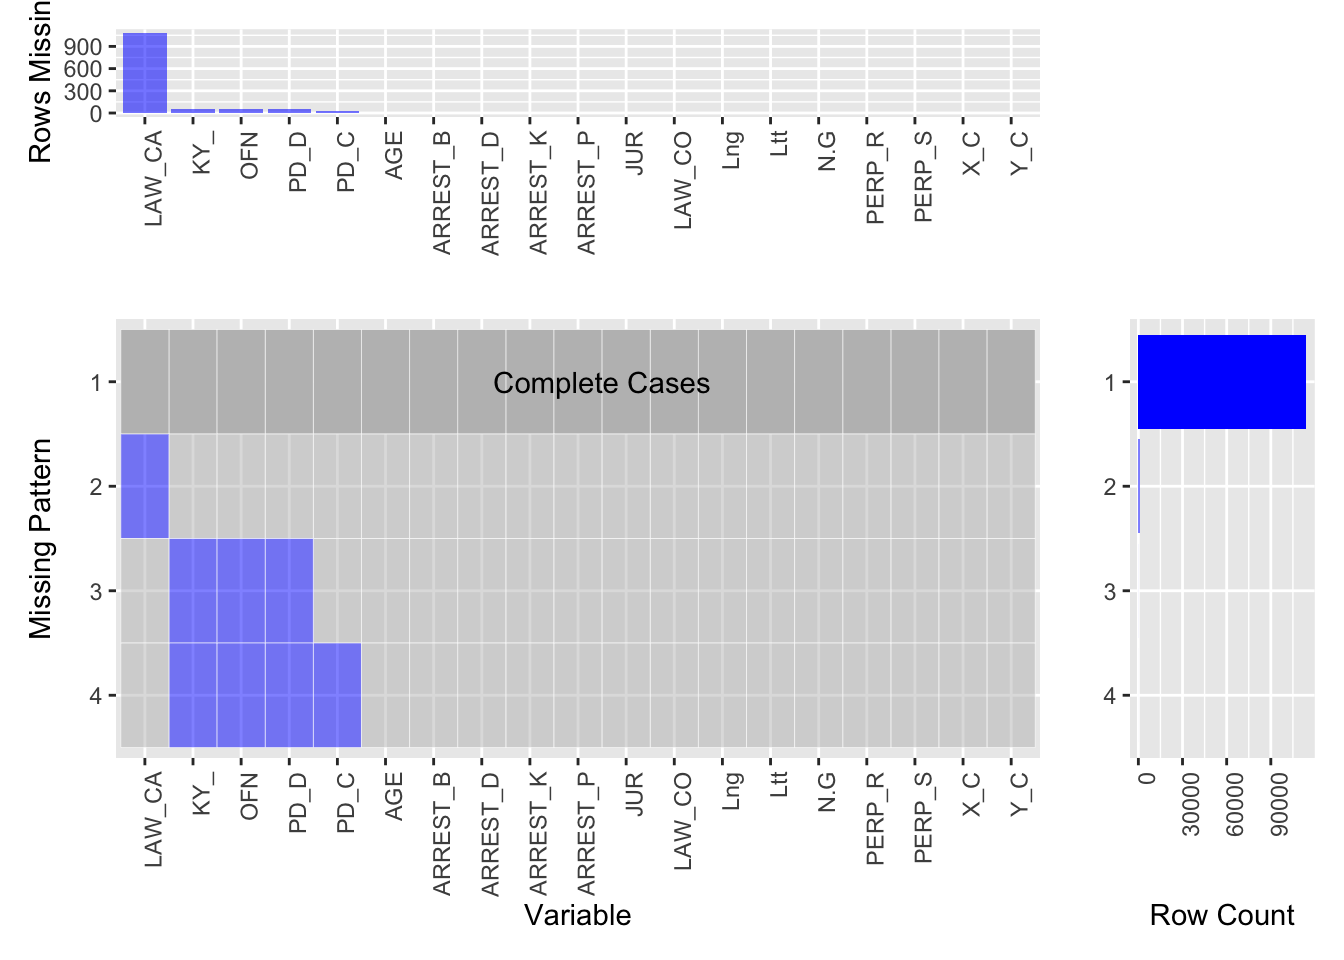
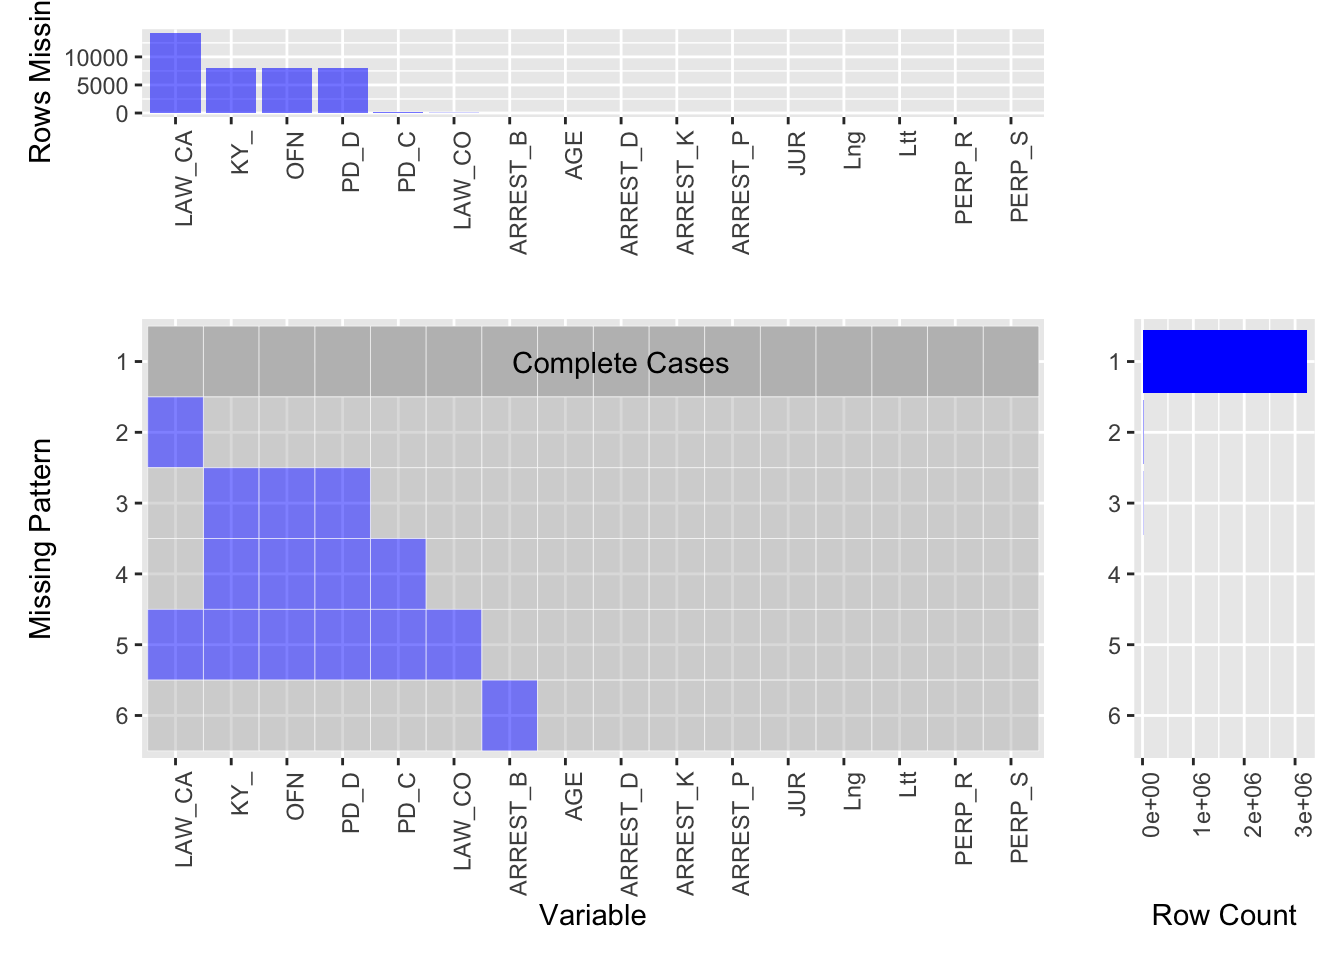
Updated missing values section

diff --git a/docs/missing-values.html b/docs/missing-values.html
@@ -24,7 +24,7 @@
 <meta name="author" content="Ryan Rogers and Tyler Marshall" />
 
 
-<meta name="date" content="2021-12-02" />
+<meta name="date" content="2021-12-03" />
 
   <meta name="viewport" content="width=device-width, initial-scale=1" />
   <meta name="apple-mobile-web-app-capable" content="yes" />
@@ -134,9 +134,10 @@
 <h2><span class="header-section-number">4.2</span> Visualizing the Missing Values</h2>
 <p>Now that we have imported our data in its original form, we will look at our dataset for missing values. Before visualizing our missing values, however, we noticed that some of the entries in the data had empty strings (""), but were not classified as NA in the dataset. Since we felt these empty strings were the equivalent of NA, we changed them in our dataset before plotting the missing values.</p>
 <p><img src="finalproj_files/figure-html/missing%20values%201-1.png" width="672" /></p>
-<p>From the first plot, we can see that there are 4 different patterns in our data with the most common pattern being no missing data. The plot above shows that there isn’t too much missing data in our dataset, but there are still a few variables that had missing values. The most common pattern where there was missing data is for just <code>LAW_CA</code> to be missing, and this happened around 1000 times in our dataset. <code>LAW_CA</code> is the level of the offense (felony, misdemeanor or violation), so it seems this is not always documented when the arrest occurs. The second most common pattern where data was missing was for the data to be missing <code>KY_</code>, <code>OFN</code>, and <code>PD_D</code>. This pattern was far less common and occurred under 100 times out of the 115,299 observations in the data. <code>KY_</code> is an internal classification keycode, <code>OFN</code> is a description of internal classification, and <code>PD_D</code> is a description of internal classification that is more granular than <code>OFN</code>. It seems that on occasion these codes and descriptions were not filled in when the arrest was made. The final pattern contains <code>KY_</code>, <code>OFN</code>, <code>PD_D</code> again, but also contains <code>PD_C</code>. <code>PD_C</code> is another internal classification code that is more granular than <code>KY_</code>. This pattern is very similar to previous one, but contains another missing variable that is similar to the others. We also want to plot our missing data showing percentage missing instead of number of rows missing.</p>
+<p>From the first plot, we can see that there are 6 different patterns in our data with the most common pattern being no missing data. The plot above shows that there isn’t too much missing data in our dataset, but there are still a few variables that had missing values. The most common pattern where there was missing data is for just <code>LAW_CA</code> to be missing, and this happened around 15000 times in our dataset. <code>LAW_CA</code> is the level of the offense (felony, misdemeanor or violation), so it seems this is not always documented when the arrest occurs. The second most common pattern where data was missing was for the data to be missing <code>KY_</code>, <code>OFN</code>, and <code>PD_D</code>. This pattern was far less common and occurred around 5000 times out of over 3.2 million observations in the data. <code>KY_</code> is an internal classification keycode, <code>OFN</code> is a description of internal classification, and <code>PD_D</code> is a description of internal classification that is more granular than <code>OFN</code>. It seems that on occasion these codes and descriptions were not filled in when the arrest was made. The next most common pattern contains <code>KY_</code>, <code>OFN</code>, <code>PD_D</code> again, but also contains <code>PD_C</code>. <code>PD_C</code> is another internal classification code that is more granular than <code>KY_</code>. This pattern is very similar to previous one, but contains another missing variable that is similar to the others. The next most common missing patterns has the most missing variables with <code>LAW_CA</code>, <code>KY_</code>, <code>OFN</code>, <code>PD_D</code>, <code>PD_C</code>, <code>LAW_CO</code> all missing. <code>LAW_CO</code> is the only variable in this group that hadn’t been in another pattern and this variable represents the law code charges which is a classification code to indicate the charge of the arrest. Our final missing pattern only had <code>ARREST_B</code> variable which is the borough that the arrest occurred in. This pattern was not very common which indicates that the arrest records do a good job keeping track of the location where the arrest happened. We also want to plot our missing data showing percentage missing instead of number of rows missing.</p>
 <p><img src="finalproj_files/figure-html/missing%20values%202-1.png" width="672" /></p>
 <p>The patterns are the same as the plot above, but this plot emphasizes the limited amount of missing data in our dataset. The portion of missing data is very small for our dataset, which is a good sign for our analysis. If there is too much missing data, the analysis can be much more challenging, but this is not the case with the NYC arrests data.</p>
+<p>Before moving on to the results section, we wanted to look further into the missing values in our dataset to see if there were any patterns with values of other variables.</p>
 
 </div>
 </div>

diff --git a/docs/404.html b/docs/404.html
@@ -33,7 +33,7 @@
   
 
 
-<script src="libs/header-attrs-2.11/header-attrs.js"></script>
+<script src="libs/header-attrs-2.10/header-attrs.js"></script>
 <script src="libs/jquery-3.6.0/jquery-3.6.0.min.js"></script>
 <script src="https://cdn.jsdelivr.net/npm/fuse.js@6.4.6/dist/fuse.min.js"></script>
 <link href="libs/gitbook-2.6.7/css/style.css" rel="stylesheet" />
@@ -55,70 +55,6 @@
 <script src="libs/anchor-sections-1.0.1/anchor-sections.js"></script>
 
 
-<style type="text/css">
-pre > code.sourceCode { white-space: pre; position: relative; }
-pre > code.sourceCode > span { display: inline-block; line-height: 1.25; }
-pre > code.sourceCode > span:empty { height: 1.2em; }
-.sourceCode { overflow: visible; }
-code.sourceCode > span { color: inherit; text-decoration: inherit; }
-pre.sourceCode { margin: 0; }
-@media screen {
-div.sourceCode { overflow: auto; }
-}
-@media print {
-pre > code.sourceCode { white-space: pre-wrap; }
-pre > code.sourceCode > span { text-indent: -5em; padding-left: 5em; }
-}
-pre.numberSource code
-  { counter-reset: source-line 0; }
-pre.numberSource code > span
-  { position: relative; left: -4em; counter-increment: source-line; }
-pre.numberSource code > span > a:first-child::before
-  { content: counter(source-line);
-    position: relative; left: -1em; text-align: right; vertical-align: baseline;
-    border: none; display: inline-block;
-    -webkit-touch-callout: none; -webkit-user-select: none;
-    -khtml-user-select: none; -moz-user-select: none;
-    -ms-user-select: none; user-select: none;
-    padding: 0 4px; width: 4em;
-    color: #aaaaaa;
-  }
-pre.numberSource { margin-left: 3em; border-left: 1px solid #aaaaaa;  padding-left: 4px; }
-div.sourceCode
-  {   }
-@media screen {
-pre > code.sourceCode > span > a:first-child::before { text-decoration: underline; }
-}
-code span.al { color: #ff0000; font-weight: bold; } /* Alert */
-code span.an { color: #60a0b0; font-weight: bold; font-style: italic; } /* Annotation */
-code span.at { color: #7d9029; } /* Attribute */
-code span.bn { color: #40a070; } /* BaseN */
-code span.bu { } /* BuiltIn */
-code span.cf { color: #007020; font-weight: bold; } /* ControlFlow */
-code span.ch { color: #4070a0; } /* Char */
-code span.cn { color: #880000; } /* Constant */
-code span.co { color: #60a0b0; font-style: italic; } /* Comment */
-code span.cv { color: #60a0b0; font-weight: bold; font-style: italic; } /* CommentVar */
-code span.do { color: #ba2121; font-style: italic; } /* Documentation */
-code span.dt { color: #902000; } /* DataType */
-code span.dv { color: #40a070; } /* DecVal */
-code span.er { color: #ff0000; font-weight: bold; } /* Error */
-code span.ex { } /* Extension */
-code span.fl { color: #40a070; } /* Float */
-code span.fu { color: #06287e; } /* Function */
-code span.im { } /* Import */
-code span.in { color: #60a0b0; font-weight: bold; font-style: italic; } /* Information */
-code span.kw { color: #007020; font-weight: bold; } /* Keyword */
-code span.op { color: #666666; } /* Operator */
-code span.ot { color: #007020; } /* Other */
-code span.pp { color: #bc7a00; } /* Preprocessor */
-code span.sc { color: #4070a0; } /* SpecialChar */
-code span.ss { color: #bb6688; } /* SpecialString */
-code span.st { color: #4070a0; } /* String */
-code span.va { color: #19177c; } /* Variable */
-code span.vs { color: #4070a0; } /* VerbatimString */
-code span.wa { color: #60a0b0; font-weight: bold; font-style: italic; } /* Warning */
-</style>
 
 
 <link rel="stylesheet" href="style.css" type="text/css" />
